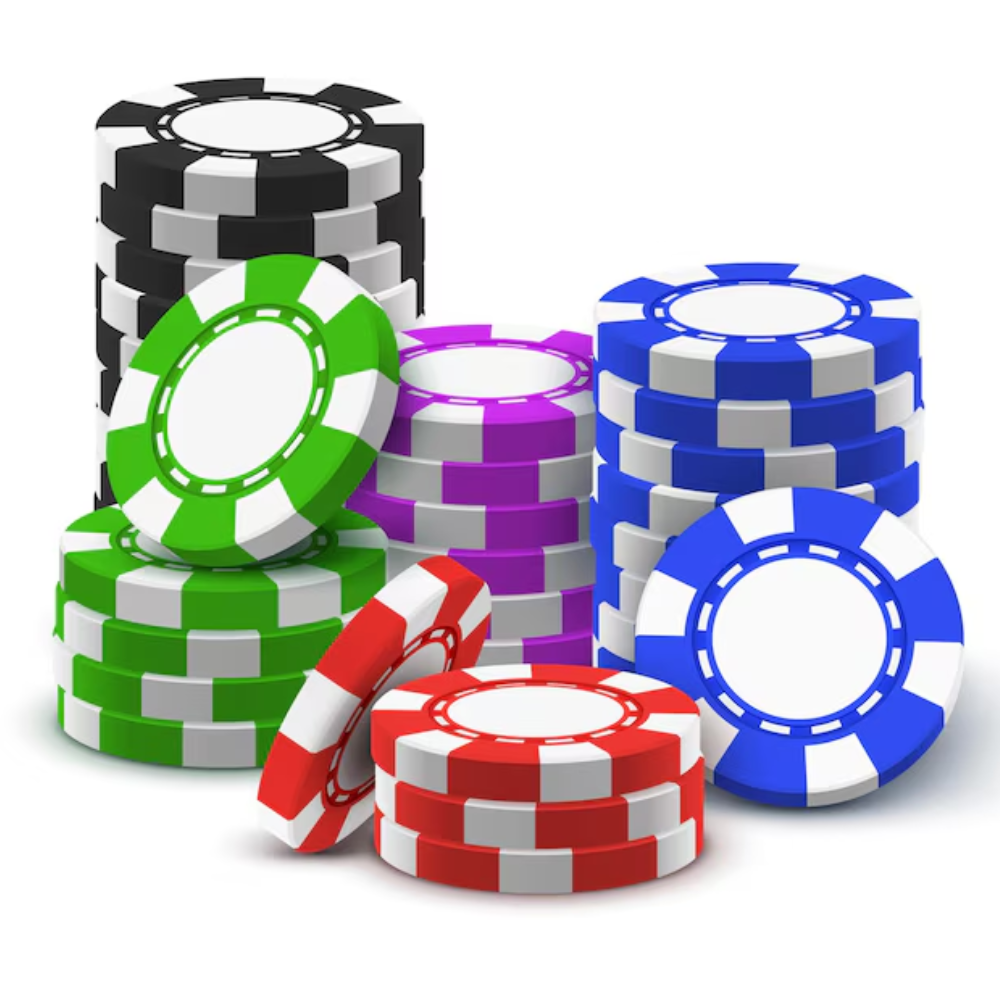
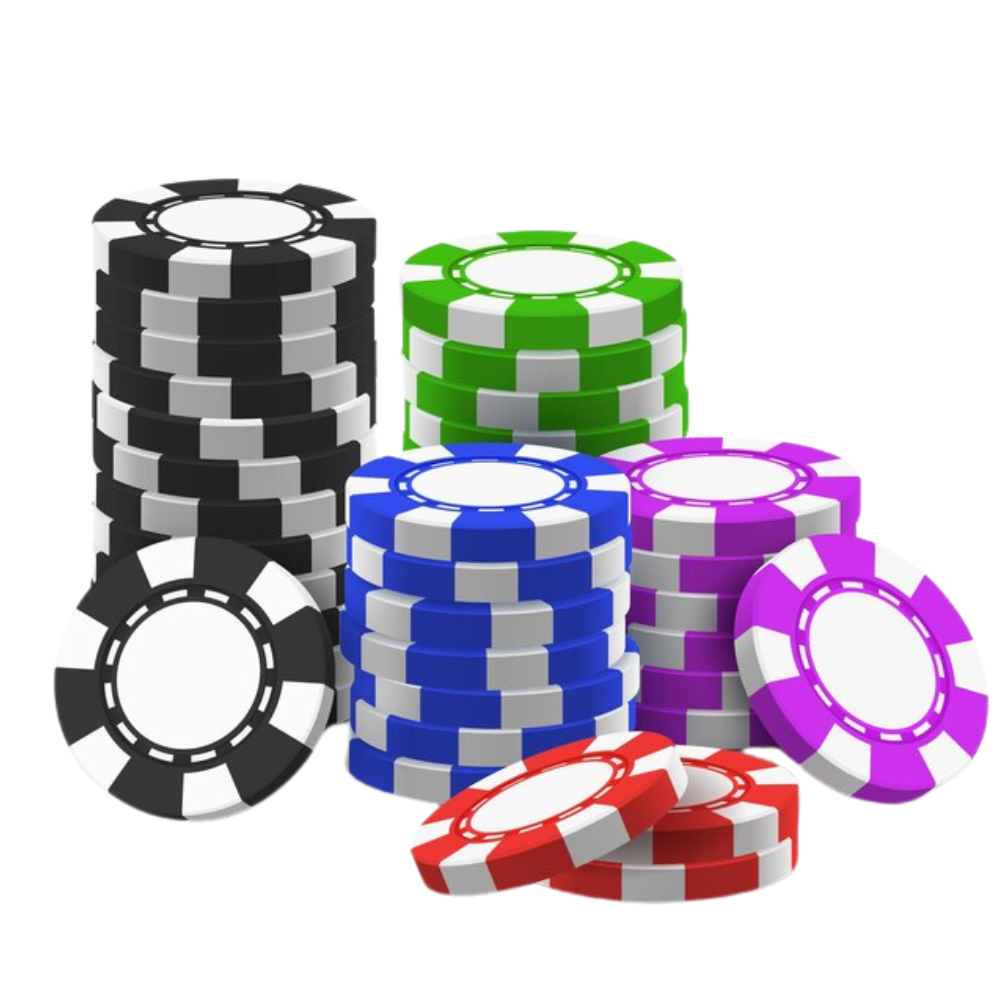
Shop items

diff --git a/src/views/ShopPage.vue b/src/views/ShopPage.vue
@@ -17,31 +17,29 @@
         border-width: 2px;
         border-color: #2a2c32;
         border-radius: 15px;
+        display: 'flex';
+        justify-content: center;
+        align-items: center;
+        background: linear-gradient(to bottom, #141414, rgba(239, 176, 7, 0.5));
         margin: 10px;
+        flex-direction: column;
       "
-    >
-      <el-row>
-        <el-col
-          :span="24"
-          :style="{
-            display: 'flex',
-            justifyContent: 'center',
-            alignItems: 'center',
-
-            background: 'linear-gradient(to bottom, transparent, rgba(239, 176, 7, 0.5))',
-          }"
-        >
-          <el-image
-            :src="buy50"
-            :style="{ borderRadius: 99, width: '150px', height: '150px' }"
-            fit="contain"
-          />
-        </el-col>
-      </el-row>
-    </motion.div> -->
+    > -->
+    <!-- <el-row>
+      <el-col
+      :span="24"
+      :style="{ display: 'flex', justifyContent: 'center', alignItems: 'center' }"
+      >
+      <el-image
+      :src="buy50"
+      :style="{ borderRadius: 99, width: '150px', height: '150px' }"
+      fit="contain"
+      />
+    </el-col>
+  </el-row> -->
 
     <!-- <el-row
-      :gutter="20"
+  :gutter="20"
       style="width: 100%; justify-content: center; align-items: center; margin-bottom: 20px"
     >
       <el-col :span="4.5">
@@ -122,22 +120,21 @@
         />
       </el-col>
     </el-row> -->
-    <!-- <div style="width: 100%; display: flex; justify-content: center; align-items: center">
+    <div style="width: 100%; display: flex; justify-content: center; align-items: center">
       <PogShopCard1 />
       <PogShopCard2 />
       <PogShopCard3 />
       <PogShopCard4 />
-    </div> -->
+    </div>
+    <!-- </motion.div> -->
   </div>
 </template>
 
 <script setup lang="ts">
-import buy50 from '@/assets/shop/50.png'
-import buy150 from '@/assets/shop/150.png'
-import buy350 from '@/assets/shop/350.png'
-import buy500 from '@/assets/shop/500.png'
-
-import { motion } from 'motion-v'
+import PogShopCard1 from '@/components/Shop/PogShopCard1.vue'
+import PogShopCard2 from '@/components/Shop/PogShopCard2.vue'
+import PogShopCard3 from '@/components/Shop/PogShopCard3.vue'
+import PogShopCard4 from '@/components/Shop/PogShopCard4.vue'
 import { ref } from 'vue'
 
 const search = ref('')

diff --git a/src/components/Shop/PogShopCard3.vue b/src/components/Shop/PogShopCard3.vue
@@ -14,32 +14,32 @@
   >
     <el-row :style="rowStyle">
       <el-image
-        :src="tikbalang"
+        :src="buy350"
         :style="{ borderRadius: 99, width: '150px', height: '150px' }"
         fit="contain"
       />
     </el-row>
 
     <el-row :style="bottomRowStyle">
-      <el-col :span="18">
+      <el-col :span="24">
         <el-row>
           <el-col :span="24">
-            <el-text :style="{ fontFamily: 'regular', color: 'white' }">003 | Tikbalang</el-text>
+            <el-text :style="{ fontFamily: 'regular', color: 'white' }">003 | 350 Chips</el-text>
           </el-col>
           <el-col :span="24">
             <el-text :style="{ fontFamily: 'bold', color: '#f2cd5c' }">Php.</el-text>
             <el-text :style="{ fontFamily: 'bold', color: 'white', marginLeft: '3px' }"
-              >500.00</el-text
+              >400.00</el-text
             >
           </el-col>
         </el-row>
       </el-col>
 
-      <el-col :span="6">
+      <!-- <el-col :span="6">
         <el-row>
           <el-image :src="legendary" :style="{ width: '45px', height: '40px' }" />
         </el-row>
-      </el-col>
+      </el-col> -->
 
       <el-col :span="24" style="margin-top: 5px">
         <el-button :style="buyButton">Buy Now</el-button>
@@ -49,12 +49,8 @@
 </template>
 
 <script setup lang="ts">
-import tikbalang from '@/assets/pogs/Tikbalang.png'
-import jeepney from '@/assets/pogs/Jeepney.png'
-import bayanihan from '@/assets/pogs/Bayanihan.png'
-import festival from '@/assets/pogs/Festival.png'
+import buy350 from '@/assets/shop/350.png'
 import legendary from '@/assets/rarities/Legendary.png'
-import { COLORS } from '@/assets/theme'
 import { motion } from 'motion-v'
 import { computed, ref } from 'vue'
 

diff --git a/src/components/Shop/PogShopCard4.vue b/src/components/Shop/PogShopCard4.vue
@@ -13,32 +13,32 @@
   >
     <el-row :style="rowStyle">
       <el-image
-        :src="jeepney"
+        :src="buy500"
         :style="{ borderRadius: 99, width: '150px', height: '150px' }"
         fit="contain"
       />
     </el-row>
 
     <el-row :style="bottomRowStyle">
-      <el-col :span="18">
+      <el-col :span="24">
         <el-row>
           <el-col :span="24">
-            <el-text :style="{ fontFamily: 'regular', color: 'white' }">001 | Festival</el-text>
+            <el-text :style="{ fontFamily: 'regular', color: 'white' }">004 | 500 chips</el-text>
           </el-col>
           <el-col :span="24">
             <el-text :style="{ fontFamily: 'bold', color: '#f2cd5c' }">Php.</el-text>
             <el-text :style="{ fontFamily: 'bold', color: 'white', marginLeft: '3px' }"
-              >100.00</el-text
+              >550.00</el-text
             >
           </el-col>
         </el-row>
       </el-col>
 
-      <el-col :span="6">
+      <!-- <el-col :span="6">
         <el-row>
           <el-image :src="rare" :style="{ width: '50px', height: '30px' }" />
         </el-row>
-      </el-col>
+      </el-col> -->
 
       <el-col :span="24" style="margin-top: 5px">
         <el-button :style="buyButton">Buy Now</el-button>
@@ -48,12 +48,8 @@
 </template>
 
 <script setup lang="ts">
-import tikbalang from '@/assets/pogs/Tikbalang.png'
-import jeepney from '@/assets/pogs/Jeepney.png'
-import bayanihan from '@/assets/pogs/Bayanihan.png'
-import festival from '@/assets/pogs/Festival.png'
+import buy500 from '@/assets/shop/500.png'
 import rare from '@/assets/rarities/Rare.png'
-import { COLORS } from '@/assets/theme'
 import { motion } from 'motion-v'
 import { computed, ref } from 'vue'
 

diff --git a/src/components/Shop/PogShopCard2.vue b/src/components/Shop/PogShopCard2.vue
@@ -14,17 +14,17 @@
   >
     <el-row :style="rowStyle">
       <el-image
-        :src="bayanihan"
+        :src="buy150"
         :style="{ borderRadius: 99, width: '150px', height: '150px' }"
         fit="contain"
       />
     </el-row>
 
     <el-row :style="bottomRowStyle">
-      <el-col :span="18">
+      <el-col :span="24">
         <el-row>
           <el-col :span="24">
-            <el-text :style="{ fontFamily: 'regular', color: 'white' }">002 | Bayanihan</el-text>
+            <el-text :style="{ fontFamily: 'regular', color: 'white' }">002 | 150 Chips</el-text>
           </el-col>
           <el-col :span="24">
             <el-text :style="{ fontFamily: 'bold', color: '#f2cd5c' }">Php.</el-text>
@@ -35,11 +35,11 @@
         </el-row>
       </el-col>
 
-      <el-col :span="6">
+      <!-- <el-col :span="6">
         <el-row>
           <el-image :src="epic" :style="{ width: '45px', height: '45px' }" />
         </el-row>
-      </el-col>
+      </el-col> -->
 
       <el-col :span="24" style="margin-top: 5px">
         <el-button :style="buyButton">Buy Now</el-button>
@@ -49,13 +49,8 @@
 </template>
 
 <script setup lang="ts">
-import tikbalang from '@/assets/pogs/Tikbalang.png'
-import jeepney from '@/assets/pogs/Jeepney.png'
-import bayanihan from '@/assets/pogs/Bayanihan.png'
-import festival from '@/assets/pogs/Festival.png'
-import rare from '@/assets/rarities/Rare.png'
+import buy150 from '@/assets/shop/150.png'
 import epic from '@/assets/rarities/Epic.png'
-import { COLORS } from '@/assets/theme'
 import { motion } from 'motion-v'
 import { computed, ref } from 'vue'
 

diff --git a/src/components/Shop/PogShopCard1.vue b/src/components/Shop/PogShopCard1.vue
@@ -14,17 +14,17 @@
   >
     <el-row :style="rowStyle">
       <el-image
-        :src="festival"
+        :src="buy50"
         :style="{ borderRadius: 99, width: '150px', height: '150px' }"
         fit="contain"
       />
     </el-row>
 
     <el-row :style="bottomRowStyle">
-      <el-col :span="18">
+      <el-col :span="24">
         <el-row>
           <el-col :span="24">
-            <el-text :style="{ fontFamily: 'regular', color: 'white' }">001 | Festival</el-text>
+            <el-text :style="{ fontFamily: 'regular', color: 'white' }">001 | 50 Chips</el-text>
           </el-col>
           <el-col :span="24">
             <el-text :style="{ fontFamily: 'bold', color: '#f2cd5c' }">Php.</el-text>
@@ -35,11 +35,11 @@
         </el-row>
       </el-col>
 
-      <el-col :span="6">
+      <!-- <el-col :span="6">
         <el-row>
           <el-image :src="rare" :style="{ width: '50px', height: '30px' }" />
         </el-row>
-      </el-col>
+      </el-col> -->
 
       <el-col :span="24" style="margin-top: 5px">
         <el-button :style="buyButton">Buy Now</el-button>
@@ -49,12 +49,8 @@
 </template>
 
 <script setup lang="ts">
-import tikbalang from '@/assets/pogs/Tikbalang.png'
-import jeepney from '@/assets/pogs/Jeepney.png'
-import bayanihan from '@/assets/pogs/Bayanihan.png'
-import festival from '@/assets/pogs/Festival.png'
+import buy50 from '@/assets/shop/50.png'
 import rare from '@/assets/rarities/Rare.png'
-import { COLORS } from '@/assets/theme'
 import { motion } from 'motion-v'
 import { computed, ref } from 'vue'
 
